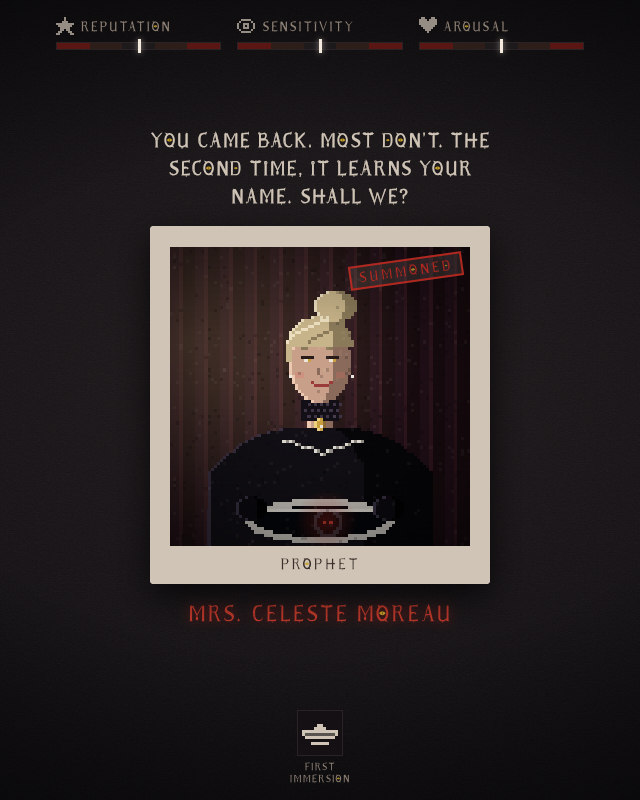
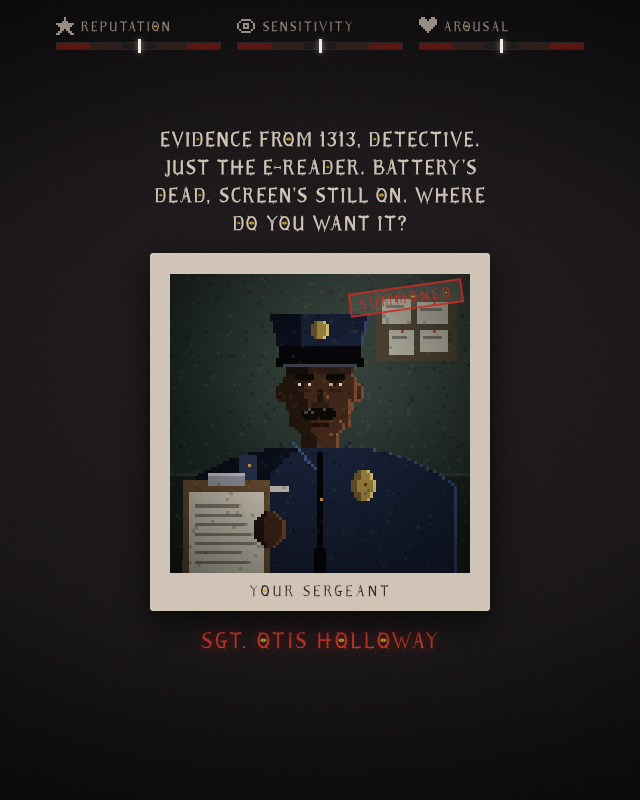
docs: using other screenshots, from early game

Changed region(s): [[0.2188, 0.1562, 0.7812, 0.8125], [0.4688, 0.9062, 0.5312, 1.0]]

diff --git a/README.md b/README.md
@@ -11,7 +11,7 @@ Written in Rust, compiled to WebAssembly, and running in your browser. The
 pixel art and every note of the music are generated in code: no image or audio
 files.
 
-![The intro: the case lands on your desk](docs/screenshots/intro.png)
+![ROOM 1313](docs/screenshots/title.png)
 
 ## The game
 
@@ -29,7 +29,7 @@ Push any of them to 0 or 100 and you get one of **six game-over cinematics**,
 each with its own score: noir lament, thrash metal, psychobilly, a broken music
 box, a requiem, and hardcore punk that stops dead when you hit the floor.
 
-<p align="center"><img src="docs/screenshots/card.png" width="420" alt="Mrs. Celeste Moreau, the prophet"></p>
+<p align="center"><img src="docs/screenshots/card.png" width="420" alt="Sgt. Otis Holloway brings you the evidence"></p>
 
 Keep your balance and the real case opens up. Sgt. Holloway hands you a broken
 e-reader. A shadow whispers. Then come a podcast, an occultist with a door under
@@ -41,7 +41,7 @@ the publicity, a reporter riding the case to fame, an occultist who'll invoice
 you for an exorcism, two loud idiots with theories, and an Agent you'll wish
 you'd never met. Also, a cat.
 
-![The truth](docs/screenshots/ending.png)
+![October 13th, the city in the rain](docs/screenshots/city.png)
 
 ## Play it
 
